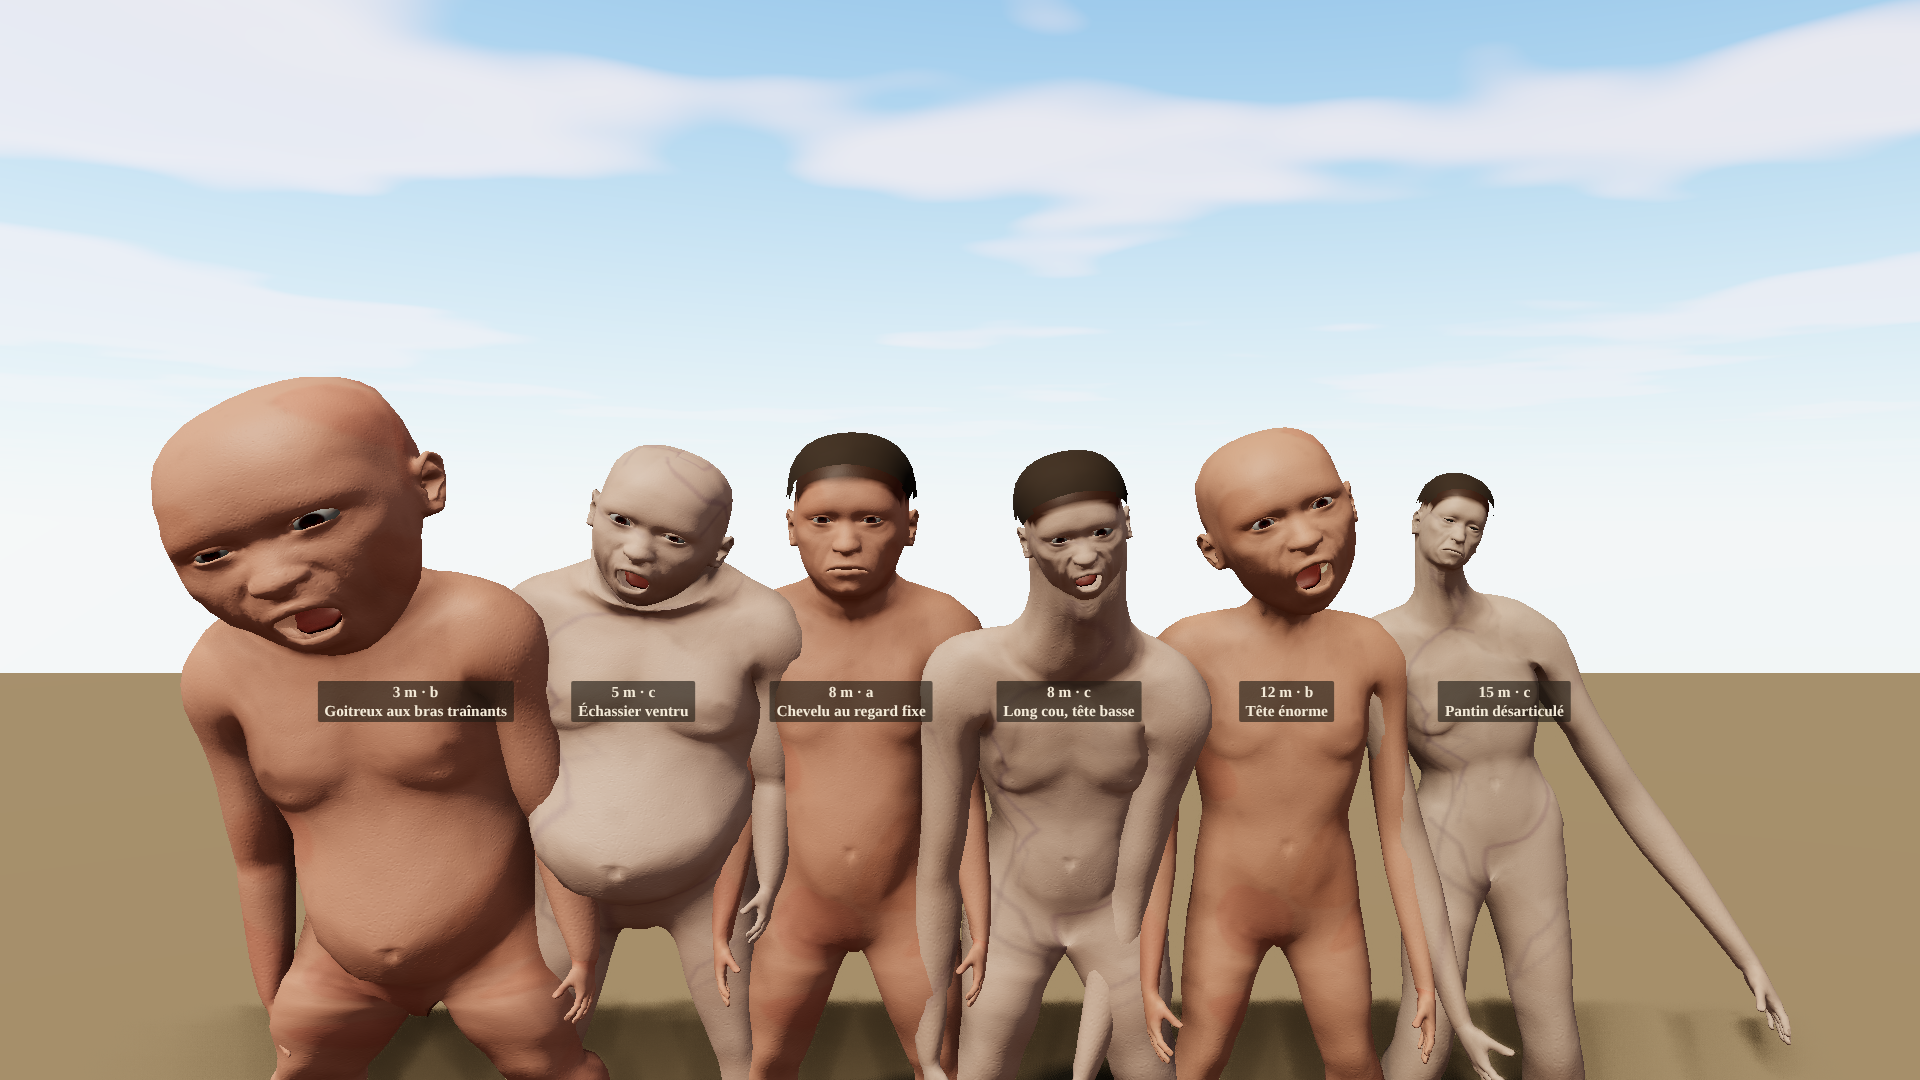
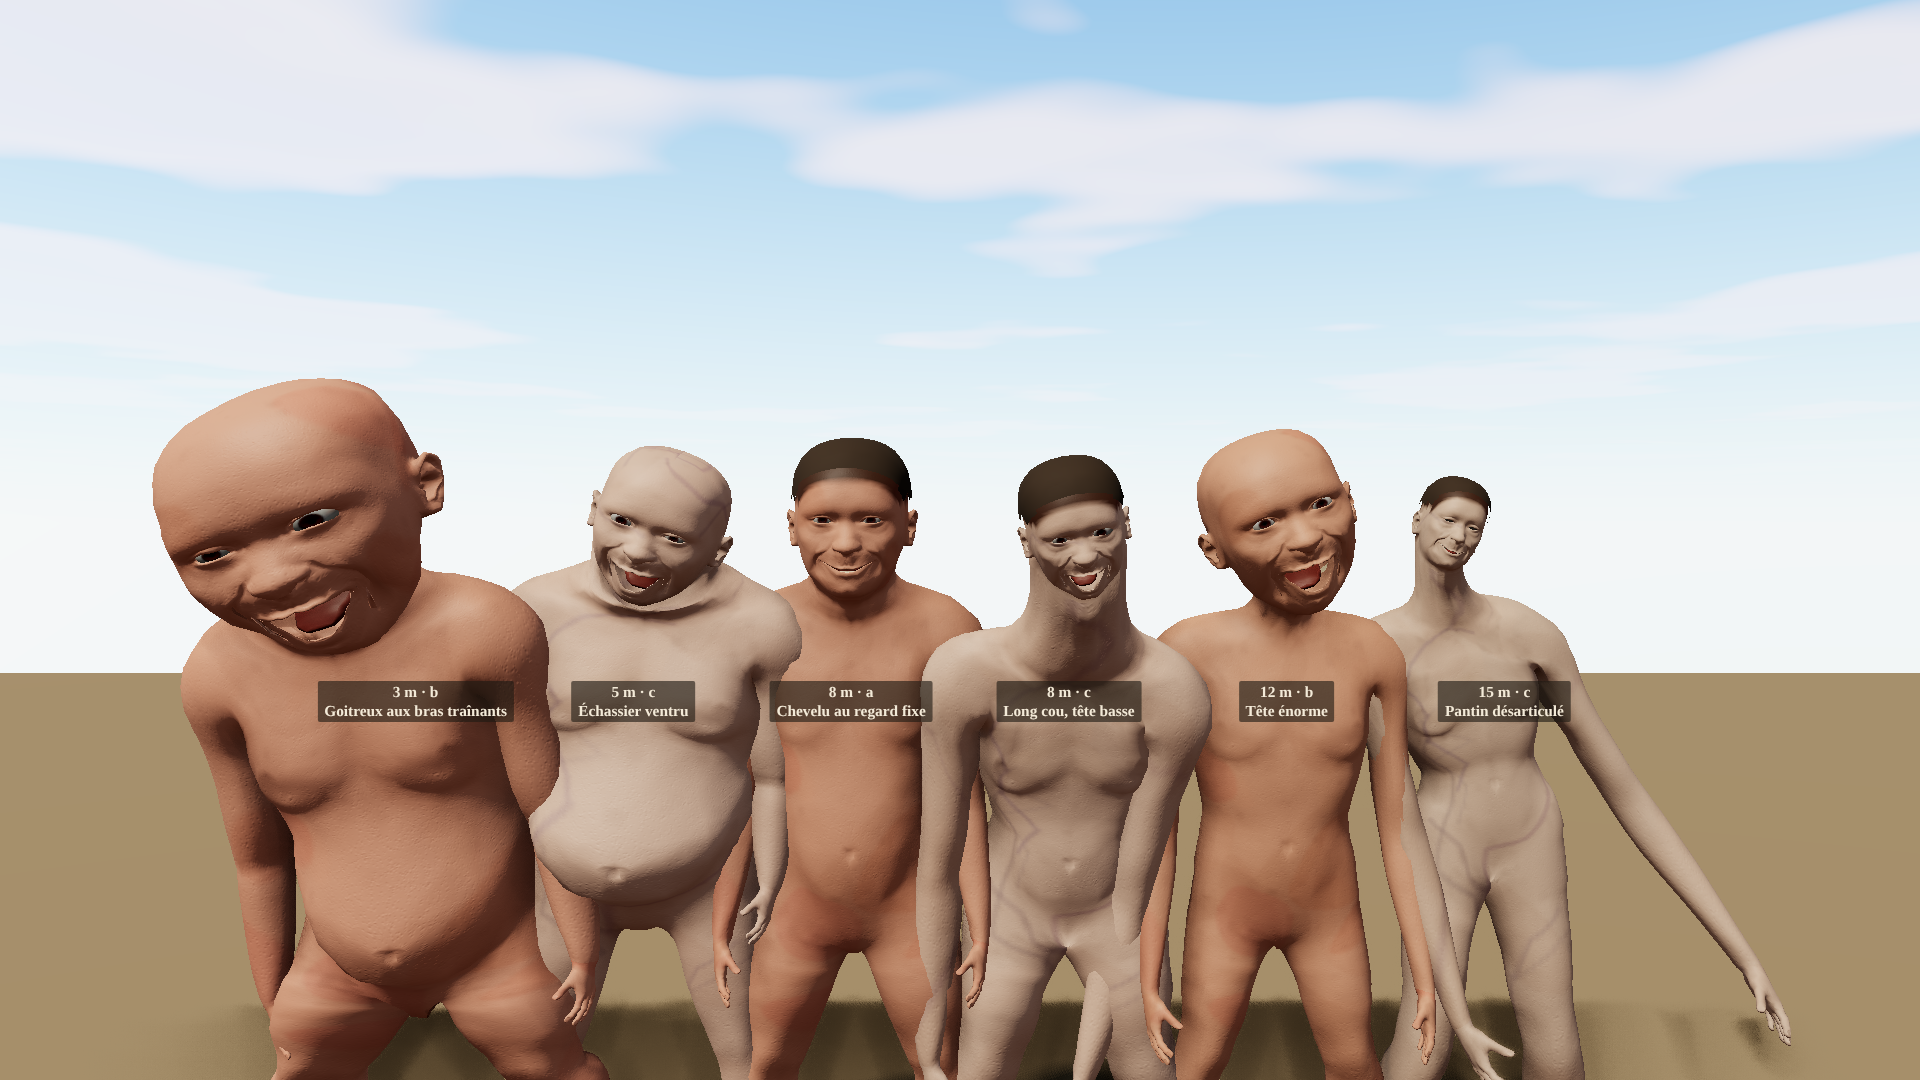
Dette n° 63 (en partie) : sourire de Titan et dents visibles, cheveux plus fins
Tous les Titans de R3 : bouche étirée en large sourire, lèvres retroussées sur les
dents, en plus de leur expression (intensités `visage_titans` dans data/art, A).
Coque de cheveux deux fois plus mince. Hauteurs inchangées (0,32 % au plus).

npm run verify : 122 fichiers, 782 tests, EXIT=0.

Claude-Session: https://claude.ai/code/session_01QkVHPRrYAvmotTxhToJVAL

diff --git a/src/render/tactical3d/humanTitan.ts b/src/render/tactical3d/humanTitan.ts
@@ -8,6 +8,7 @@ import { buildHairCap, paintHair } from "./humanSoldier";
 import { unitSphere } from "./rig";
 import { derive, range, seeded } from "./rng";
 import { MATERIALS } from "./styles";
+import { FIGURES_R3 } from "./figuresR3";
 import { TITAN_LARGE, titanSteam } from "./titan";
 import type { JointName, Titan, TitanSpec } from "./titan";
 
@@ -209,6 +210,15 @@ export function titanMacro(spec: TitanSpec): { macro: Macro; details: Record<str
   } else {
     Object.assign(details, { eye_left_closure: 0.25, eye_right_closure: 0.25, mouth_depression: 0.6 });
   }
+  // Dette n° 63 : visage de Titan, pas d'homme : bouche étirée en large sourire, lèvres retroussées sur les dents (Titans
+  // de R3, en plus de l'expression ; intensités dans `data/art/figures_r3.json`, A).
+  if (spec.r3) {
+    const f = FIGURES_R3.visage_titans;
+    details["mouth_corner_puller"] = (details["mouth_corner_puller"] ?? 0) + f.sourire;
+    details["mouth_retraction"] = (details["mouth_retraction"] ?? 0) + f.retraction;
+    details["mouth_open"] = (details["mouth_open"] ?? 0) + f.ouverture;
+    delete details["mouth_depression"];
+  }
   // R3 : yeux de tailles inégales (ouverture de chaque paupière).
   const eyes = spec.r3?.eyes;
   if (eyes) {
@@ -345,7 +355,8 @@ export function buildHumanTitan(t: HumanTemplate, spec: TitanSpec, seed: number,
   let hair: Mesh | null = null;
   if (spec.hair) {
     paintHair(body, hairMat, skin, headScale);
-    hair = buildHairCap(body, hairMat, 0.012 * headScale, 0.008, 0, headScale);
+    // Dette n° 63 : coque plus mince (bord moins net, moins d'effet de calotte).
+    hair = buildHairCap(body, hairMat, 0.006 * headScale, 0.008, 0, headScale);
     if (hair) body.group.add(hair);
   }
 

diff --git a/src/data/artSchemas.ts b/src/data/artSchemas.ts
@@ -354,6 +354,8 @@ export const FiguresR3FileSchema = z
     fantassins_paradis: z
       .object({ defaut: z.enum(SOLDIER_OUTFIT_IDS), par_region: z.record(z.string().min(1), z.enum(SOLDIER_OUTFIT_IDS)), canon: CanonSchema, note: z.string().min(1) })
       .strict(),
+    /** Dette n° 63 : sourire de Titan ajouté aux cibles de bouche (au-delà du visage humain), pour tous les Titans de R3. */
+    visage_titans: z.object({ sourire: z.number().min(0).max(2), retraction: z.number().min(0).max(2), ouverture: z.number().min(0).max(1), canon: CanonSchema, note: z.string().min(1) }).strict(),
     /** Dette n° 72 : remise des médailles par la reine Historia (planche `r3-medailles`). */
     ceremonie_medailles: z
       .object({

diff --git a/docs/reports/dette.md b/docs/reports/dette.md
@@ -73,7 +73,7 @@ Format : **quoi** — où — gravité (faible / moyenne / forte). Tag `LC-repor
 
 | 61 | R3 : au-delà de la distance de détail (35 / 60 / 90 m selon la qualité) et du plafond (8 / 24 / 48 figures), soldats et fantassins restent des figures instanciées en primitives, sans animation ; seules les couleurs suivent les tenues | `src/render/tactical3d/battle/units.ts`, `view3d.ts` | moyenne | R3 |
 | 62 | R3 : en bataille, la Police militaire et les officiers de Paradis n'apparaissent pas (fantassins de Paradis = Garnison, officier figuré seulement en tête des sections ennemies) ; Hizuru et les Alliés portent la tenue de Marley | `src/render/tactical3d/figuresR3.ts` (`troopLook`) | faible | R3 ; **corrigé** (D-171 : officier de Paradis sans fusil, pistolet au tir ; Brigade Militaire pour les batailles dans Sina ; Alliés et Hizuru recolorés, sans brassard ; planche `r3-fantassins`) |
-| 63 | R3 : visages des Titans encore humains (corps de base MakeHuman) ; coque de cheveux à bord net (effet de calotte) ; pli sombre au cou du 15 m « massif » (cou court et épais) | `humanTitan.ts`, `data/art/figures_r3.json` | faible | R3 |
+| 63 | R3 : visages des Titans encore humains (corps de base MakeHuman) ; coque de cheveux à bord net (effet de calotte) ; pli sombre au cou du 15 m « massif » (cou court et épais) | `humanTitan.ts`, `data/art/figures_r3.json` | faible | R3 ; **en partie** (sourire de Titan, lèvres retroussées sur les dents pour tous les Titans de R3, `visage_titans` ; coque de cheveux deux fois plus mince) ; reste : visage sculpté propre aux Titans (T1, V2), lisière des cheveux encore visible, pli du cou |
 | 64 | R3 : la construction des corps de base se fait sur le fil de l'interface (≈ 0,4 s par Titan, une par image ; deux soldats par image) : le temps JS p95 monte à ≈ 0,2 s quand la fenêtre de mesure contient ces images (`smoke:r2` 1920 et 3840 : « figures » 218 et 210 ms ; mesuré après, à 1366 : 7,4 ms) ; régime établi avec 24 figures du corps de base non isolé ; à mesurer sur GPU réel (avec la dette n° 49) ; pistes : construction en tâche de fond (worker), poses des figures lointaines une image sur deux | `view3d.ts`, `humanAnim.ts` | moyenne | R3 |
 | 65 | R3 : pas d'animation de rechargement ni de recul au tir ; officier : pistolet au tir, sans ordre de commandement figuré ; pas de cheval ni de cavalier (hors périmètre 21 §8) | `humanAnim.ts`, `humanSoldier.ts` | faible | R3 ; **corrigé** sauf le cheval, hors périmètre (recul de 0,15 s au départ du coup ; état « recharge » à l'arrêt en ligne quand le coup suivant est à plus de 0,6 s ; l'officier commande le feu, bras levé, pendant que ses hommes rechargent ; planche `r3-poses`) |
 | 66 | P9 (`sim:balance`) : Marley mené par le joueur ne prend jamais Paradis face à l'IA de Paradis, qui lève des corps sur l'île menacée chaque mois (84 corps en deux ans) et projette ses Titans ; l'IA de Marley y parvient contre un Paradis joueur qui ne défend pas. À revoir avec une partie réelle (plafond de levées par province, soutien naval ou aérien au débarquement) | `src/sim/world/ai.ts` (`monthlyAi`), `data/balance/world.json` | moyen | P9 (revue) |

diff --git a/docs/reports/dettes-suite.md b/docs/reports/dettes-suite.md
@@ -105,3 +105,14 @@ Les corrections de la 3D (n° 74, 75, 55) sont décrites dans `CONFORMITE-3D.md`
   profil, poing sur le cœur ; la reine en robe ivoire et cape bleue au milieu ; deux grandes bannières rouges.
   - Défauts : cheveux de la reine en calotte courte (lecture presque chauve) ; garde de gauche caché par les soldats ;
     médailles invisibles à cette distance ; murs unis sans fenêtres ni moulures ; trône en blocs.
+
+## Dette n° 63 (en partie) : visages des Titans
+- Tous les Titans de R3 : bouche étirée en large sourire, lèvres retroussées sur les dents, quelle que soit l'expression
+  (cibles de bouche poussées au-delà du visage humain ; intensités `visage_titans`, A). Coque de cheveux deux fois plus
+  mince. Reste : visage sculpté propre aux Titans (T1, V2), lisière des cheveux, pli du cou du 15 m « massif ».
+- `npm run verify` (`dette63-verify.log`) : « Tests  782 passed (782) », `EXIT=0` ; planches (`dette63-planches.log`) :
+  « OK  r3-titans : 15 corps à l'échelle, hauteurs mesurées à 0.32 % au plus (±5 %) », « OK  r3-visages », `EXIT=0`.
+- **`r3-visages.png`** : six Titans de près ; tous sourient d'une oreille à l'autre, rangée de dents visible chez le 5 m
+  et le 12 m, bouche béante rouge chez le 3 m.
+  - Défauts : plis étirés aux coins de la bouche ; cheveux encore en calotte avec une lisière claire ; étiquettes sur
+    les torses ; corps lisses, presque humains (T1 reporté).

diff --git a/docs/PROGRESS.md b/docs/PROGRESS.md
@@ -4,7 +4,7 @@
 |---|---|
 | Phase | **PACK terminée** (application Windows Electron : `npm run package:win`, `smoke:pack` ; D-164). Feuille de route V2 achevée (N1 à N3). Suite : dette n° 72 (tenues des soldats, demande de l'utilisateur) et contrôle de conformité de la 3D, puis dettes. |
 | Tâche | Dettes n° 74, 75, 55 (décor), 56, 57, 58, 11, 38, 13, 14, 62, 65 corrigées ; 31 et 45 en partie (D-166 à D-171) ; dettes suivantes |
-| Dernier `npm run verify` | 2026-10-11 : code 0 ; 122 fichiers, 782 tests (`docs/reports/dette72m-verify.log`) |
+| Dernier `npm run verify` | 2026-10-11 : code 0 ; 122 fichiers, 782 tests (`docs/reports/dette63-verify.log`) |
 | Prochaine étape | PROCHAINE ACTION EXACTE : dettes restantes par gravité (hors `src/sim`, figé depuis R2), puis résumé final des 3 jours le 2026-10-12 vers 19:35 UTC, sur `claude/intelligent-feynman-8ekib4` (mandat autonome jusqu'au 2026-10-12 19:33 UTC, D-148). À faire par Gabriel : `npm run package:win` sur Windows (`docs/LANCER_SUR_WINDOWS.md`) ; mesures GPU (dettes n° 49, 64, 71, 73) |
 
 ## Mandat autonome de trois jours (2026-10-09 → 2026-10-12, D-148)
